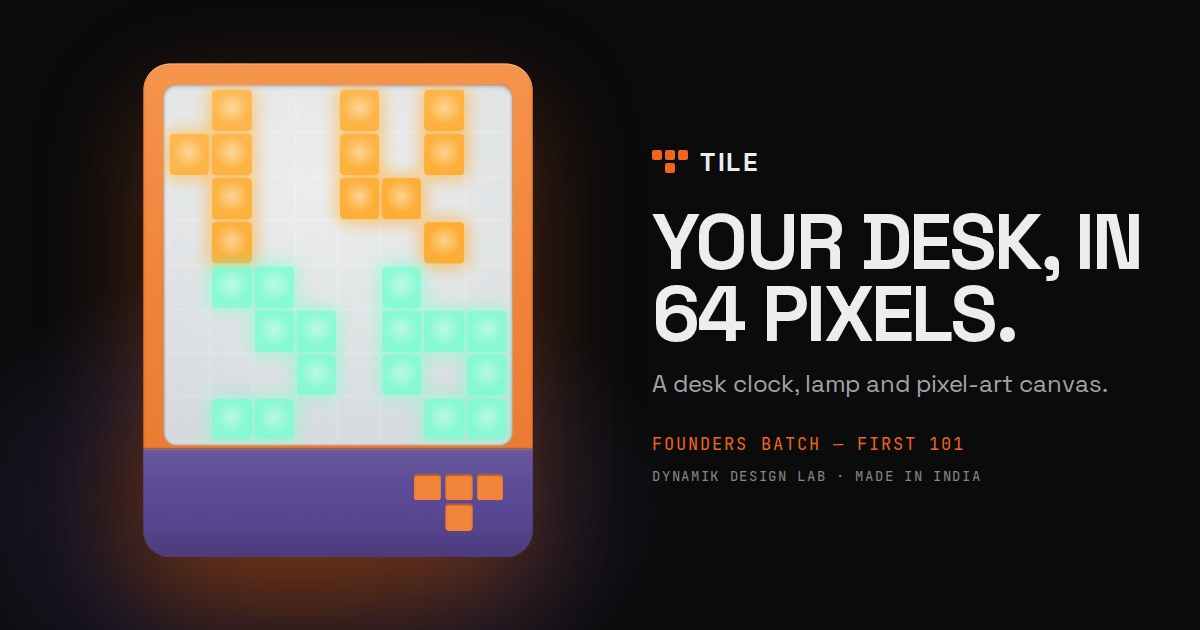
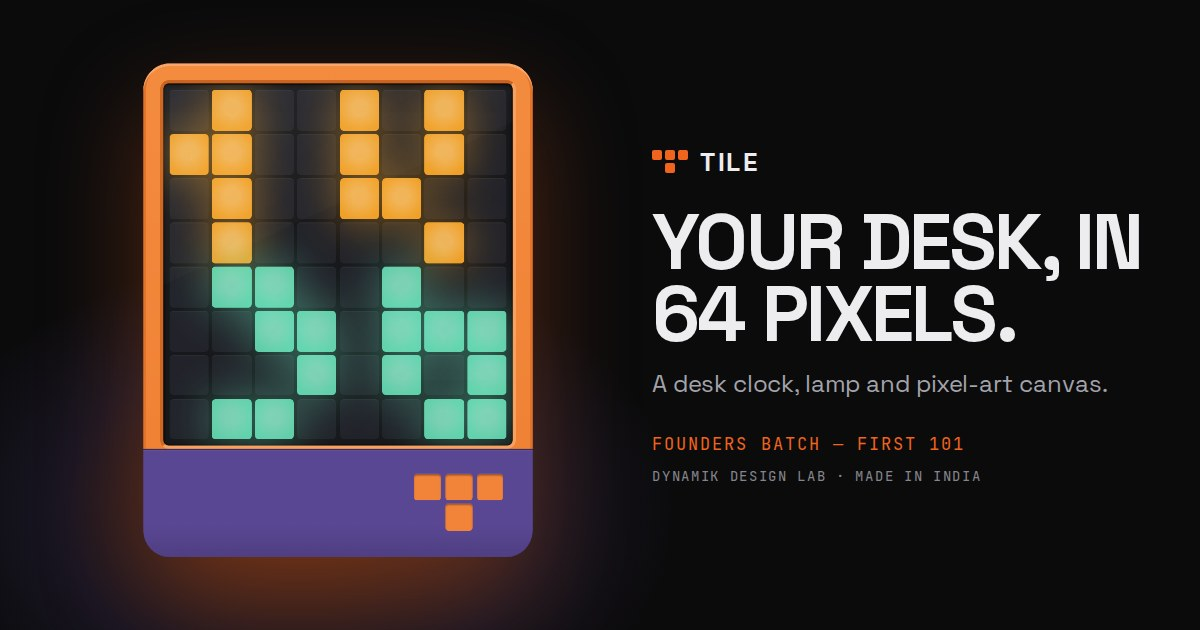
Tile device: real silhouette, chamfers and dark screen
- Orange body rounded at the top and square at the bottom; chin square at the top
  and rounded at the bottom, same radius, flush sides, fine seam
- Outer chamfer on the orange (lit top, darker sides); inner chamfer stepping down
  into the screen (shadowed top-left, lit bottom-right); small screen corner radius
- Dark screen: #17181B base, #22232A cells with a faint top edge, saturated pixels
  with a brighter centre and a one-cell glow in their own colour
- Embers display curve back to the dark-screen tuning
- Share image regenerated

Claude-Session: https://claude.ai/code/session_01EoVtejs2yt3x5amj4Ynkzg

Changed region(s): [[0.1233, 0.1206, 0.4317, 0.7238]]

diff --git a/src/app/products/tile/TileDevice.tsx b/src/app/products/tile/TileDevice.tsx
@@ -17,29 +17,29 @@ export const CHINS: Record<Chin, { label: string; color: string }> = {
   navy: { label: 'Navy', color: '#26334F' },
 }
 
-// Proportions of the product, as percentages of the container (1212 × 1298), so the device keeps its size everywhere.
-const BODY = { left: '9.74%', top: '1.39%', width: '80.53%', height: '95.3%' }
-const CHIN_HEIGHT = '22%' // of the front
-// The frosted diffuser: a thin orange bezel at the sides and top, ending just above the chin.
-const SCREEN = { left: '14.02%', top: '5.5%', width: '71.96%', height: '69.6%' }
+// Geometry, as percentages of the container (1212 × 1298) so the device keeps its size everywhere.
+// Corner radii use container-width units (cqw) so they stay circular at any size.
+const R = '5.5cqw' // outer corner radius: top of the orange body, bottom of the chin
+const SIDES = { left: '9.74%', width: '80.53%' }
+const ORANGE_BOX = { ...SIDES, top: '1.39%', height: '74.33%' } // ends in a straight edge where the chin starts
+const CHIN_BOX = { ...SIDES, top: '75.72%', height: '20.97%' } // ~22% of the front
+const SCREEN = { left: '14.02%', top: '5.5%', width: '71.96%', height: '69.6%' } // the diffuser opening
+const SCREEN_R = '1cqw' // ~18% of the outer radius
+const BEVEL = '3.5px' // inner chamfer from the bezel down to the diffuser
 
-// Two-tone matte body: orange shell, coloured chin. Soft light from above, no gloss.
-const BODY_STYLE: CSSProperties = {
-  ...BODY,
-  borderRadius: '7% / 5.4%',
-  background: 'linear-gradient(180deg, #F7944C 0%, #F2843A 45%, #E9772E 100%)',
-  boxShadow: '0 1px 0 rgba(255,236,220,0.45) inset, 0 -2px 3px rgba(90,30,0,0.25) inset',
-  overflow: 'hidden',
+// Flat matte orange with a fine outer chamfer: catching light along the top, a touch darker down the sides.
+const ORANGE_STYLE: CSSProperties = {
+  ...ORANGE_BOX,
+  borderRadius: `${R} ${R} 0 0`,
+  background: 'linear-gradient(180deg, #F48C40 0%, #F08235 100%)',
+  boxShadow: 'inset 0 2.5px 0 #F9A66A, inset 2.5px 0 0 #E2732A, inset -2.5px 0 0 #E2732A',
 }
+// Flat matte chin, square at the top (flush with the orange), rounded at the bottom; a fine seam where they meet.
 const CHIN_STYLE: CSSProperties = {
-  position: 'absolute',
-  left: 0,
-  right: 0,
-  bottom: 0,
-  height: CHIN_HEIGHT,
-  backgroundImage:
-    'linear-gradient(180deg, rgba(255,255,255,0.10) 0%, rgba(255,255,255,0.03) 30%, rgba(0,0,0,0) 60%, rgba(0,0,0,0.16) 100%)',
-  boxShadow: '0 1px 0 rgba(255,255,255,0.12) inset, 0 -1px 0 rgba(0,0,0,0.25)',
+  ...CHIN_BOX,
+  borderRadius: `0 0 ${R} ${R}`,
+  backgroundImage: 'linear-gradient(180deg, rgba(0,0,0,0) 70%, rgba(0,0,0,0.12) 100%)',
+  boxShadow: 'inset 0 1px 0 rgba(0,0,0,0.45), inset 0 2px 0 rgba(255,255,255,0.06)',
 }
 // The Tile mark on the chin: three squares over one, slightly recessed, bottom-right.
 const MARK: CSSProperties = {
@@ -57,18 +57,28 @@ const MARK_SQUARE: CSSProperties = {
   background: '#F2843A',
   boxShadow: '0 1.5px 1.5px rgba(0,0,0,0.35) inset, 0 -0.5px 0 rgba(255,255,255,0.12)',
 }
-// Frosted white diffuser, set into the bezel.
-const PANEL_STYLE: CSSProperties = {
-  ...SCREEN,
-  borderRadius: '3.6% / 3.6%',
-  background: 'radial-gradient(120% 90% at 50% 30%, #EEF0F1 0%, #E1E4E6 55%, #D3D7DA 100%)',
-  boxShadow: '0 2px 4px rgba(90,30,0,0.35) inset, 0 0 0 1px rgba(120,50,10,0.25) inset',
+// The screen opening: a chamfer stepping down from the bezel (shadowed top and left, lit bottom and right),
+// then the dark diffuser, recessed with a thin inner shadow.
+const OPENING_STYLE: CSSProperties = {
+  position: 'absolute',
+  left: `calc(${SCREEN.left} - ${BEVEL})`,
+  top: `calc(${SCREEN.top} - ${BEVEL})`,
+  width: `calc(${SCREEN.width} + 2 * ${BEVEL})`,
+  height: `calc(${SCREEN.height} + 2 * ${BEVEL})`,
+  boxSizing: 'border-box',
+  borderStyle: 'solid',
+  borderWidth: BEVEL,
+  borderColor: '#C9631F #F7A060 #F7A060 #CF6822', // top right bottom left
+  borderRadius: `calc(${SCREEN_R} + ${BEVEL})`,
+  background: '#17181B',
+  boxShadow: 'inset 0 2px 4px rgba(0,0,0,0.7), inset 0 0 0 1px rgba(0,0,0,0.5)',
 }
 const DIM = 'brightness(0.34) saturate(0.85)'
 
-// An unlit pixel: just the diffuser, with the faintest hint of the grid behind it.
+// An unlit pixel: quiet rounded square, faint light along its top edge.
 const OFF: CSSProperties = {
-  background: 'rgba(120,128,134,0.025)',
+  background: '#22232A',
+  boxShadow: 'inset 0 1px 0 rgba(255,255,255,0.04)',
 }
 
 interface Interactive {
@@ -92,7 +102,7 @@ export default function TileDevice({
   dim = false,
   glow = 14,
   interactive,
-  alt = 'Tile, a desk display with a frosted 8 by 8 pixel screen, orange body and coloured chin',
+  alt = 'Tile, a desk display with an 8 by 8 pixel screen, orange body and coloured chin',
 }: Props) {
   // Mouse paints on press (so drag-painting works); touch paints on tap so scrolling past doesn't.
   const lastPointer = useRef('mouse')
@@ -101,23 +111,26 @@ export default function TileDevice({
       role={interactive ? 'group' : 'img'}
       aria-label={alt}
       className="relative w-full select-none"
-      style={{ aspectRatio: '1212 / 1298' }}
+      style={{ aspectRatio: '1212 / 1298', containerType: 'inline-size' }}
     >
-      <div aria-hidden="true" className="absolute" style={dim ? { ...BODY_STYLE, filter: DIM } : BODY_STYLE}>
-        <div className="motion-safe:transition-colors motion-safe:duration-300" style={{ ...CHIN_STYLE, backgroundColor: CHINS[chin].color }}>
-          <div style={MARK}>
-            {[0, 1, 2, 4].map((n) => (
-              <span key={n} style={{ ...MARK_SQUARE, gridColumn: (n % 3) + 1, gridRow: Math.floor(n / 3) + 1 }} />
-            ))}
-          </div>
+      <div aria-hidden="true" className="absolute" style={dim ? { ...ORANGE_STYLE, filter: DIM } : ORANGE_STYLE} />
+      <div
+        aria-hidden="true"
+        className="absolute motion-safe:transition-colors motion-safe:duration-300"
+        style={{ ...CHIN_STYLE, backgroundColor: CHINS[chin].color, ...(dim ? { filter: DIM } : null) }}
+      >
+        <div style={MARK}>
+          {[0, 1, 2, 4].map((n) => (
+            <span key={n} style={{ ...MARK_SQUARE, gridColumn: (n % 3) + 1, gridRow: Math.floor(n / 3) + 1 }} />
+          ))}
         </div>
       </div>
-      <div aria-hidden="true" className="absolute" style={dim ? { ...PANEL_STYLE, filter: DIM } : PANEL_STYLE} />
+      <div aria-hidden="true" style={dim ? { ...OPENING_STYLE, filter: DIM } : OPENING_STYLE} />
       <div
         className="absolute grid grid-cols-8 grid-rows-8 overflow-hidden"
         style={{
           ...SCREEN,
-          borderRadius: '3.6% / 3.6%',
+          borderRadius: SCREEN_R,
           padding: '1.2%',
           columnGap: '0.95%',
           rowGap: '0.95%',
@@ -126,8 +139,9 @@ export default function TileDevice({
         {cells.map((c, i) => {
           const style: CSSProperties = c
             ? {
-                background: `radial-gradient(circle at 50% 45%, ${c.center} 0%, ${c.edge} 55%, ${c.edge} 100%)`,
-                boxShadow: `0 0 ${glow}px ${Math.round(glow / 5)}px ${c.glow}`,
+                background: `radial-gradient(circle at 50% 45%, ${c.center} 0%, ${c.center} 25%, ${c.edge} 80%)`,
+                // Spills about one cell onto the neighbours, in the pixel's own colour
+                boxShadow: `0 0 ${((glow / 14) * 8).toFixed(1)}cqw ${((glow / 14) * 0.6).toFixed(1)}cqw ${c.glow}`,
                 opacity: c.level ?? 1,
               }
             : OFF
@@ -146,18 +160,18 @@ export default function TileDevice({
               onClick={(e) => {
                 if (e.detail === 0 || lastPointer.current !== 'mouse') interactive.onKey(i)
               }}
-              className={`rounded-[9%] border-0 p-0 cursor-crosshair focus-visible:outline focus-visible:outline-2 focus-visible:outline-offset-1 focus-visible:outline-[#0B0B0C] ${
-                c ? '' : 'hover:!bg-[rgba(60,66,72,0.16)]'
+              className={`rounded-[9%] border-0 p-0 cursor-crosshair focus-visible:outline focus-visible:outline-2 focus-visible:outline-offset-1 focus-visible:outline-[#EDEDEF] ${
+                c ? '' : 'hover:!bg-[#2E2F37]'
               }`}
               style={style}
             />
           )
         })}
-        {/* Soft sheen across the frosted cover */}
+        {/* Cover: a faint diagonal reflection over the pixels */}
         <div
           aria-hidden="true"
           className="pointer-events-none absolute inset-0"
-          style={{ background: 'linear-gradient(160deg, rgba(255,255,255,0.18) 0%, rgba(255,255,255,0) 45%)' }}
+          style={{ background: 'linear-gradient(155deg, rgba(255,255,255,0.07) 0%, rgba(255,255,255,0.02) 38%, rgba(255,255,255,0) 38.5%)' }}
         />
       </div>
     </div>

diff --git a/src/app/products/tile/tileSim.ts b/src/app/products/tile/tileSim.ts
@@ -6,8 +6,8 @@ export type Cells = (Lit | null)[]
 
 const rgbOf = (hex: number) => [(hex >> 16) & 255, (hex >> 8) & 255, hex & 255]
 
-// One LED at a brightness level (0–1). Behind the frosted diffuser a dimmer LED shows as a fainter
-// patch of the same colour, so the level sets how strongly it shows rather than darkening it.
+// One LED at a brightness level (0–1): saturated colour with a slightly brighter centre and a soft
+// glow in its own colour. The level fades the pixel into the dark screen.
 export function led(hex: number, level = 1): Lit {
   // A colour like rgb(189,66,0) is orange light at ~74% strength, not brown: show the hue at full
   // brightness and fold the rest into the level.
@@ -15,11 +15,11 @@ export function led(hex: number, level = 1): Lit {
   const peak = Math.max(...raw, 1)
   const l = Math.max(0, Math.min(1, level * (peak / 255)))
   const [r, g, b] = raw.map((v) => Math.round((v * 255) / peak))
-  const mix = (v: number) => Math.round(v + (255 - v) * 0.45)
+  const mix = (v: number) => Math.round(v + (255 - v) * 0.25)
   return {
     center: `rgb(${mix(r)},${mix(g)},${mix(b)})`,
     edge: `rgb(${r},${g},${b})`,
-    glow: `rgba(${r},${g},${b},0.75)`,
+    glow: `rgba(${r},${g},${b},0.45)`,
     level: l,
   }
 }
@@ -137,8 +137,7 @@ export function embersStep(levels: number[], random: () => number = Math.random)
 }
 // LEDs look brighter in a room than their raw level suggests, and the hottest ones read as yellow.
 // On screen the same animation gets a display curve and a heat tint: yellow core, orange flames, red sparks.
-// The curve is gentle at the low end so faint sparks stay faint tints on the frosted diffuser.
-const embersOnScreen = (l: number) => Math.min(1, Math.pow(Math.max(0, l), 1.2) * 1.3)
+const embersOnScreen = (l: number) => Math.min(1, Math.pow(Math.max(0, l), 0.45) * 1.35)
 const HEAT: [number, number][] = [
   [0, 0x9a0e00],
   [0.08, 0xe62200],
